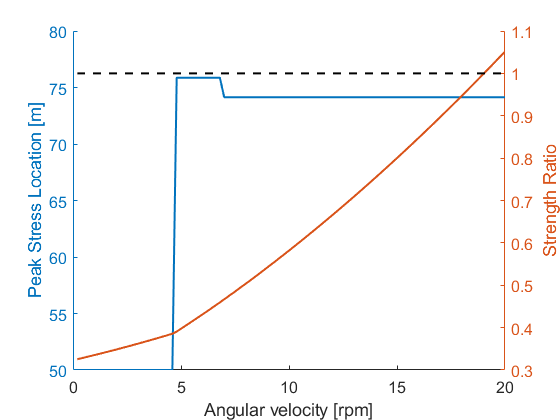
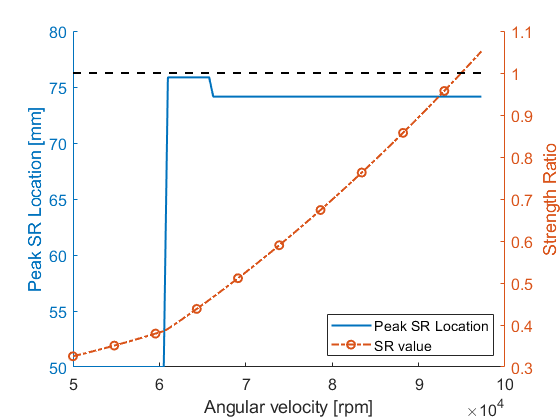
latest update

diff --git a/plotPeakStresses.m b/plotPeakStresses.m
@@ -1,34 +1,7 @@
 resFile = 'constResults.mat';
 load(resFile)
-
-% rArr = linspace(0.08, 0.2,30);
-% figure(1)
-% hold on
-% plot(rArr,results.sArr{1}(3,:,1)*10, 'b-', 'Linewidth', 2)
-% plot(rArr,results.sArr{1}(1,:,1), 'r-.', 'Linewidth', 2)
 load('MaterialProperties\CFRP_Aparicio2011.mat');
-% A2011 = csvread('Apa2011_10xradial.csv');
-% 
-% radii = A2011(:,1);
-% str = A2011(:,2);
-% figure(1)
-% hold on
-% plot(radii,str,'k*')
-% 
-% 
-% A2011 = csvread('Apa2011_hoop.csv');
-% 
-% radii = A2011(:,1);
-% str = A2011(:,2);
-% figure(1)
-% hold on
-% plot(radii,str,'kd')
-% 
-% xlabel('Radius [m]')
-% ylabel('Stress [MPa]')
-% legend('Model 10*\sigma_r', 'Model \sigma_\theta', 'Aparicio 10*\sigma_r', 'Aparicio \sigma_\theta')
-% set(gca, 'Fontsize', 12)
-% 
+
 figure()
 hold on
 maxStr = zeros(length(results.time),3);
@@ -57,9 +30,40 @@ figure(2)
 hold on
 plot(results.vel,nStr(:,1), '-*', 'Color', [0 0.4470 0.7410], 'MarkerIndices', 1:10:length(results.time), 'Linewidth', 1.5)
 plot(results.vel,nStr(:,2), '--d', 'Color', [0.6350 0.0780 0.1840], 'MarkerIndices', 1:10:length(results.time), 'Linewidth', 1.5)
+plot(results.vel,results.peakstr, ':v', 'Color', [0.4660 0.6740 0.1880], 'MarkerIndices', 1:10:length(results.time), 'Linewidth', 1.5)
 % plot(results.time,nStr(:,3), 'Linewidth', 1.5)
 
 ylabel('Normalzied stress')
 xlabel('Angular velocity [rpm]')
-legend('Circ. Stress', 'Radial Stress', 'Location', 'northwest')
+legend('Circ. Stress', 'Radial Stress', 'Tsai-Wu SR', 'Location', 'northwest')
 set(gca, 'Fontsize', 12)
+
+
+
+
+% rArr = linspace(0.08, 0.2,30);
+% figure(1)
+% hold on
+% plot(rArr,results.sArr{1}(3,:,1)*10, 'b-', 'Linewidth', 2)
+% plot(rArr,results.sArr{1}(1,:,1), 'r-.', 'Linewidth', 2)
+% A2011 = csvread('Apa2011_10xradial.csv');
+% 
+% radii = A2011(:,1);
+% str = A2011(:,2);
+% figure(1)
+% hold on
+% plot(radii,str,'k*')
+% 
+% 
+% A2011 = csvread('Apa2011_hoop.csv');
+% 
+% radii = A2011(:,1);
+% str = A2011(:,2);
+% figure(1)
+% hold on
+% plot(radii,str,'kd')
+% 
+% xlabel('Radius [m]')
+% ylabel('Stress [MPa]')
+% legend('Model 10*\sigma_r', 'Model \sigma_\theta', 'Aparicio 10*\sigma_r', 'Aparicio \sigma_\theta')
+% set(gca, 'Fontsize', 12)

diff --git a/main.m b/main.m
@@ -65,12 +65,12 @@ end
 % alpha = @(t,wIni) (wIni * exp(t/T));
 
 % Plotting
-legTxt = {'0 sec', '25 sec', '50 sec', '75 sec', '100 sec'}; % Controls legend entries for graphs
+legTxt = {'0 sec', '5 sec', '10 sec', '15 sec', '20 sec'}; % Controls legend entries for graphs
 plotWhat.custom1 = 'yes';        % any custom plot. Go to plotStressStrain.m to modify (first if statement)
 plotWhat.radDis = 'no';          % Radial displacement v. radius
-plotWhat.radStr = 'yes';         % Radial stress v. radius plot
-plotWhat.hoopStr = 'yes';        % Hoop stress v. radius plot
-plotWhat.shearStr = 'yes';       % Shear stress v. radius
+plotWhat.radStr = 'no';         % Radial stress v. radius plot
+plotWhat.hoopStr = 'no';        % Hoop stress v. radius plot
+plotWhat.shearStr = 'no';       % Shear stress v. radius
 plotWhat.peakStr = 'yes';        % 2-yaxis plot. Peak stress location and SR v. time
 
 plotWhat.disGif = 'no';          % Displacement gif, surface plot
@@ -251,7 +251,17 @@ end
 %% -----------------------------------------------------------------------------
 % Calculate failure criterion
 % ------------------------------------------------------------------------------
-[F] = failureIndex(rdiv);
+[SR] = failureIndex(rdiv);
+
+figure()
+hold on
+plot(rArr*1000,SR(15,:), '-o','MarkerIndices', 1:3:length(rArr), 'Linewidth', 1.5)
+plot(rArr*1000,SR(45,:), '--d', 'Color', [0.6350 0.0780 0.1840], 'MarkerIndices', 1:3:length(rArr), 'Linewidth', 1.5)
+ylabel('SR')
+xlabel('Radius [mm]')
+legend('SR \it t=3', 'SR \it t=9')
+set(gca, 'Fontsize', 12)
+
 %% -----------------------------------------------------------------------------
 % Make Plots
 % ------------------------------------------------------------------------------

diff --git a/plotStressStrain.m b/plotStressStrain.m
@@ -133,17 +133,18 @@ end
 if strcmp(plotWhat.peakStr, 'yes')
   peakStr = figure('Visible','on');
   hold on
-  yyaxis left; plot(results.time,results.peakloc*1000, 'LineWidth', 1.5);
-  yyaxis right; plot(results.time,results.peakstr, 'LineWidth', 1.5);
-  yyaxis right; plot(results.time, ones(length(results.time)), 'k--', 'LineWidth', 1.5)
+  yyaxis left; plot(results.vel,results.peakloc*1000, '-', 'Color', [0 0.4470 0.7410], 'MarkerIndices', 1:10:results.vel, 'LineWidth', 1.5);
+  yyaxis right; plot(results.vel,results.peakstr, '-.o', 'MarkerIndices', 1:10:results.vel, 'LineWidth', 1.5);
+  yyaxis right; plot(results.vel, ones(length(results.time)), 'k--', 'LineWidth', 1.5)
 
 end
 
 xlabel('Angular velocity [rpm]')
 yyaxis left
-ylabel('Peak Stress Location [m]')
+ylabel('Peak SR Location [mm]')
 yyaxis right
 ylabel('Strength Ratio')
+legend('Peak SR Location', 'SR value', 'Location', 'southeast')
 set(gca, 'FontSize', 12)
 
 %% -----------------------------------------------------------------------------

diff --git a/failureIndex.m b/failureIndex.m
@@ -1,4 +1,4 @@
-function [R] = failureIndex(rdiv)
+function [strRatio] = failureIndex(rdiv)
 
 global results rArr rim mat vari
 
@@ -28,7 +28,6 @@ for b = 1:vari
     A = Ftt*sigt.^2 + 2*Ftr*sigt.*sigr + Frr*sigr.^2 + Fs*tau;
     B = Ft*sigt + Fr*sigr;
     C = -1;
-
     R(b,rStart:rEnd) = (-B + sqrt(B.^2 - 4*A*C)) ./ (2*A);
     strRatio(b,rStart:rEnd) = R(b,rStart:rEnd).^-1;
 
